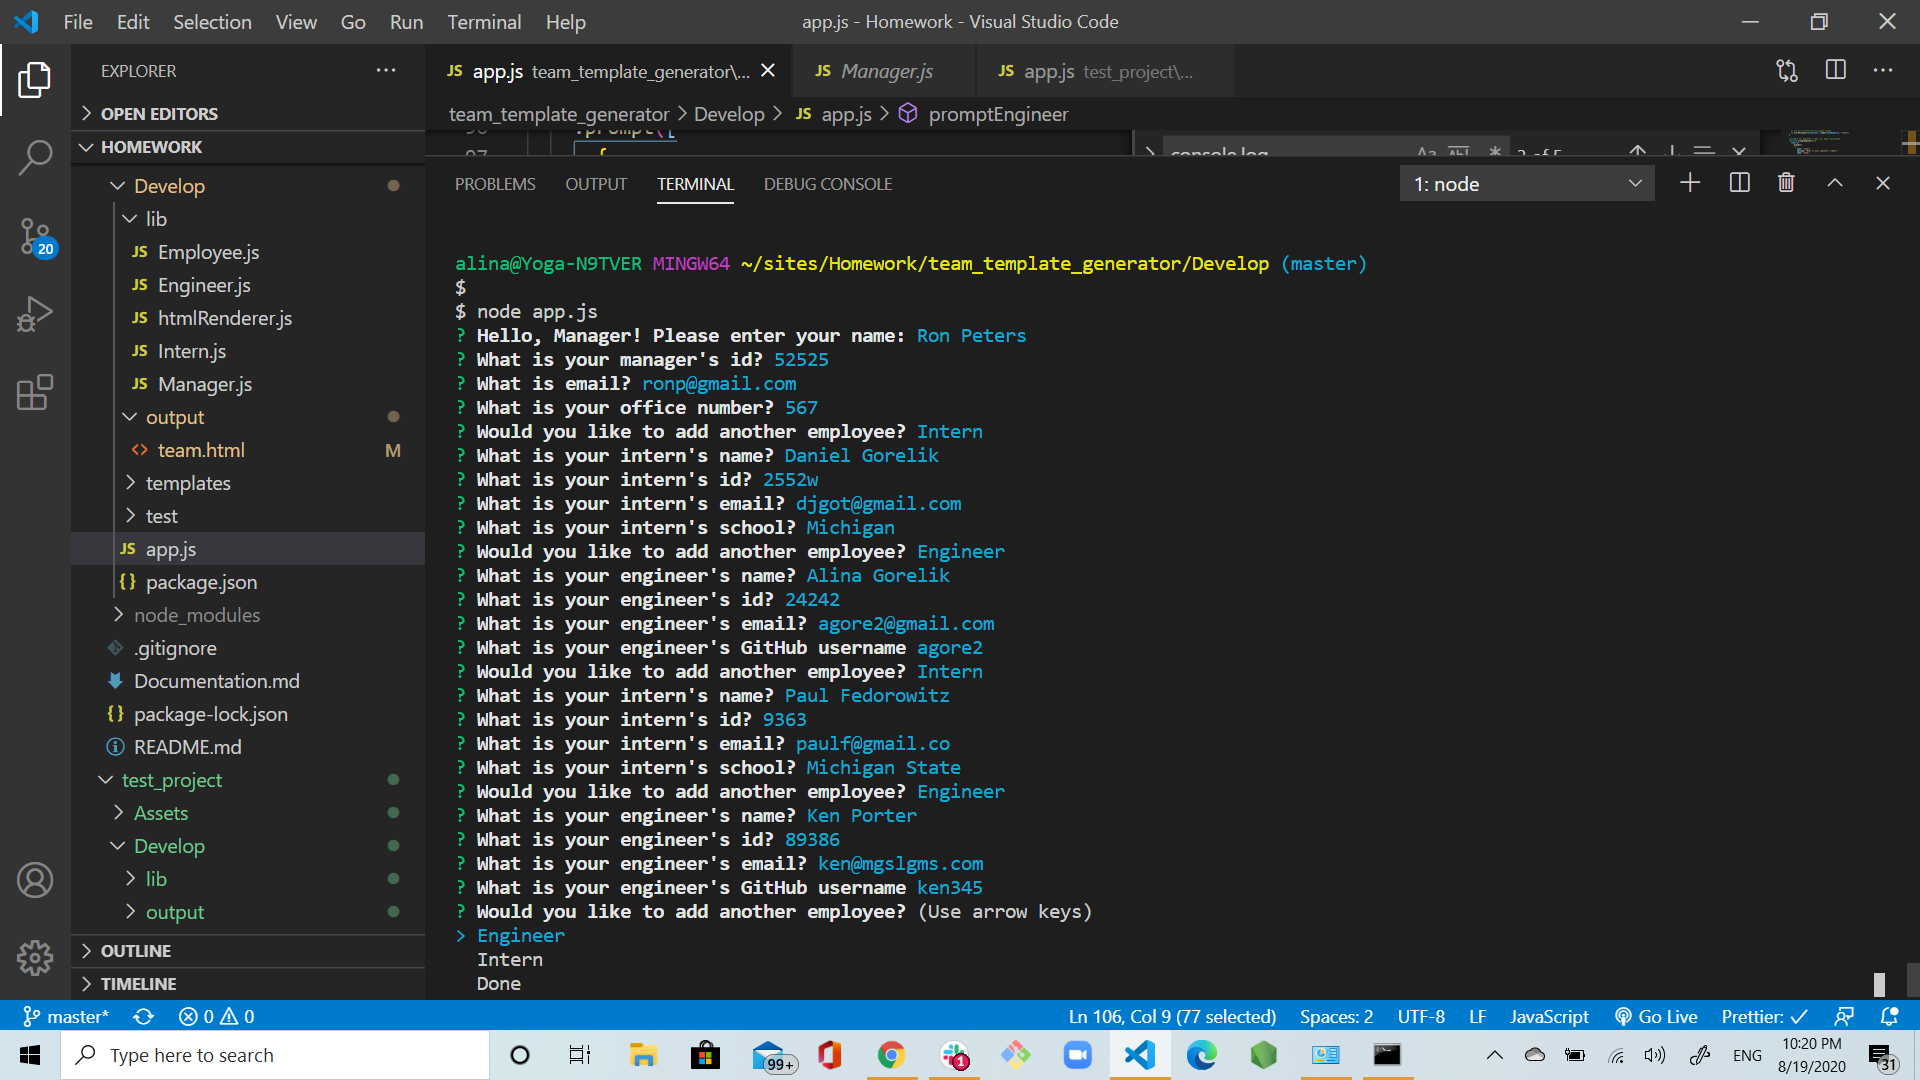
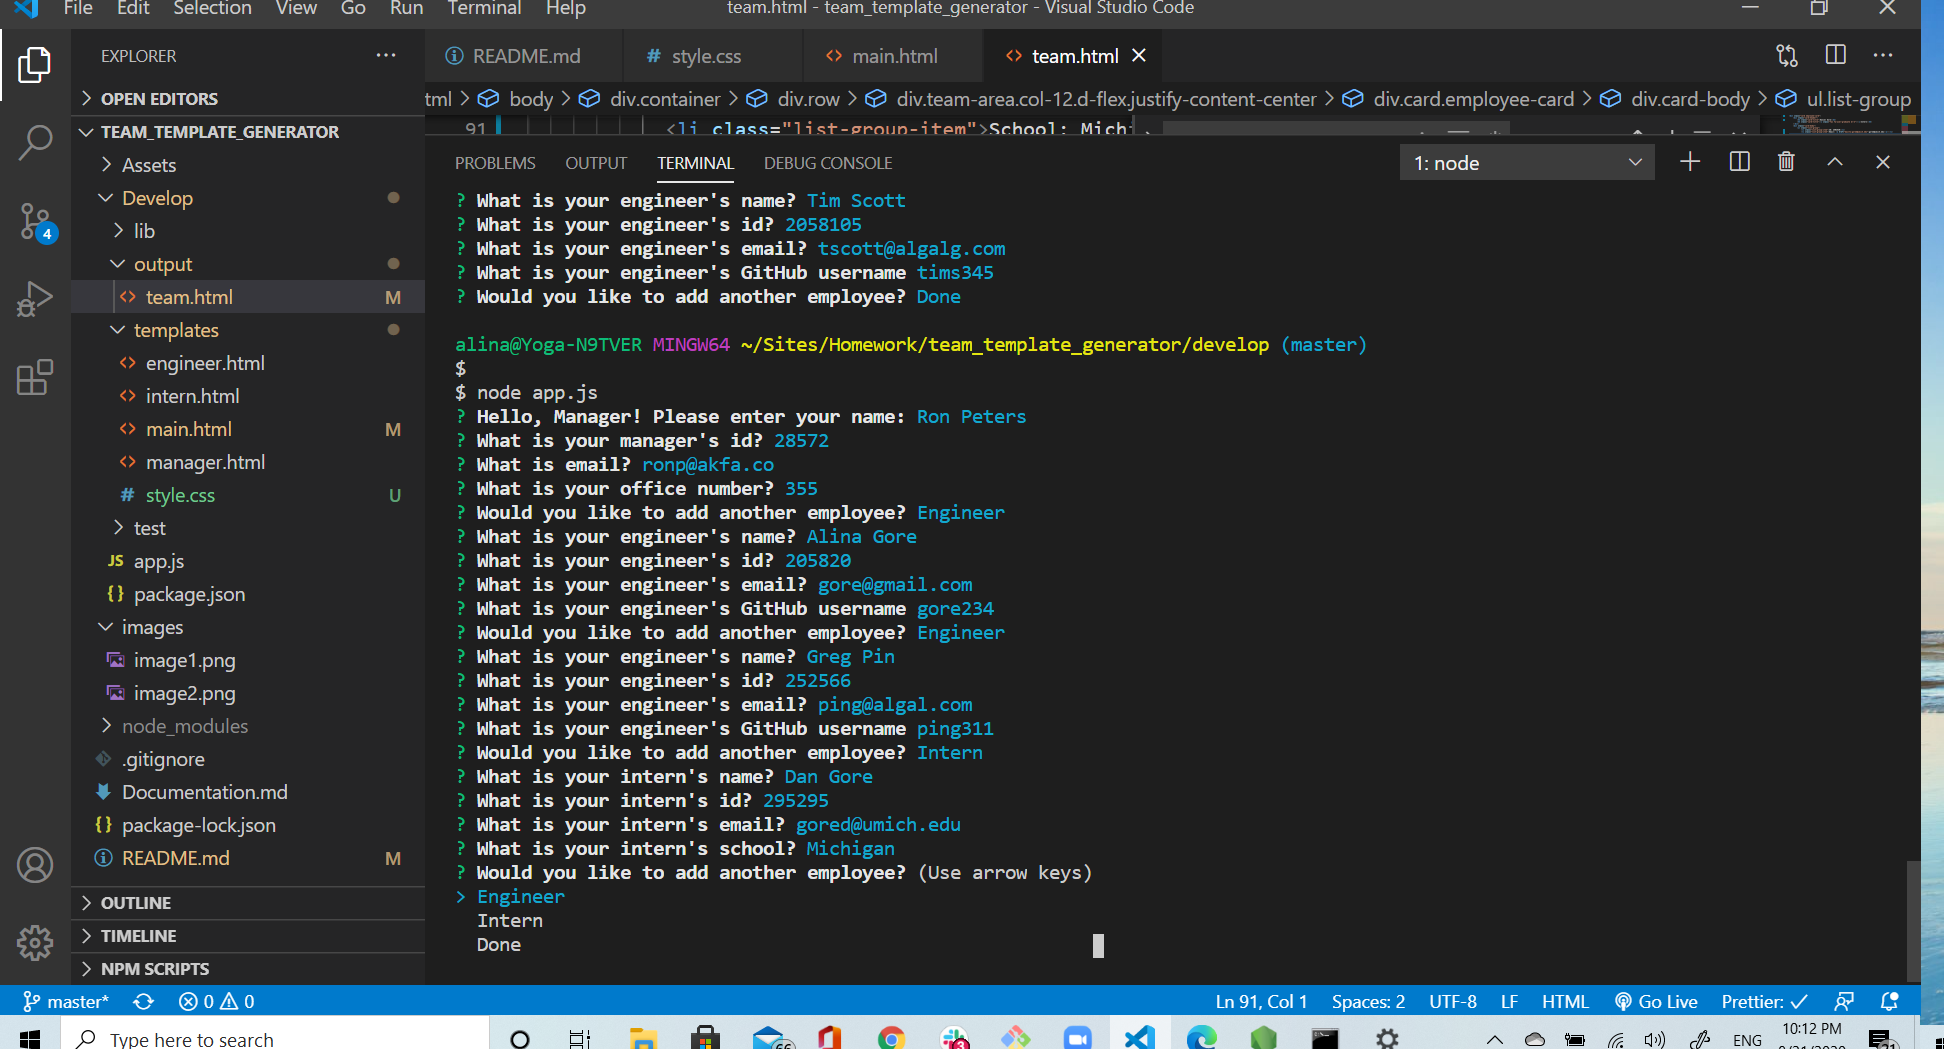
created style.css, added styles

diff --git a/Develop/output/team.html b/Develop/output/team.html
@@ -1,97 +1,87 @@
 <!DOCTYPE html>
 <html lang="en">
-
-<head>
+  <head>
     <meta charset="UTF-8" />
     <meta name="viewport" content="width=device-width, initial-scale=1.0" />
     <meta http-equiv="X-UA-Compatible" content="ie=edge" />
     <title>My Team</title>
-    <link rel="stylesheet" href="https://stackpath.bootstrapcdn.com/bootstrap/4.3.1/css/bootstrap.min.css"
-        integrity="sha384-ggOyR0iXCbMQv3Xipma34MD+dH/1fQ784/j6cY/iJTQUOhcWr7x9JvoRxT2MZw1T" crossorigin="anonymous">
-    <link rel="stylesheet" href="style.css">
-    <script src="https://kit.fontawesome.com/c502137733.js"></script>
-</head>
+    <link
+      rel="stylesheet"
+      href="https://stackpath.bootstrapcdn.com/bootstrap/4.3.1/css/bootstrap.min.css"
+      integrity="sha384-ggOyR0iXCbMQv3Xipma34MD+dH/1fQ784/j6cY/iJTQUOhcWr7x9JvoRxT2MZw1T"
+      crossorigin="anonymous"
+    />
 
-<body>
+    <script src="https://kit.fontawesome.com/c502137733.js"></script>
+    <link rel="stylesheet" href="../templates/style.css" />
+  </head>
+
+  <body>
     <div class="container-fluid">
-        <div class="row">
-            <div class="col-12 jumbotron mb-3 team-heading">
-                <h1 class="text-center">My Team</h1>
-            </div>
+      <div class="row">
+        <div class="col-12 jumbotron mb-3 team-heading">
+          <h1 class="text-center">My Team</h1>
         </div>
+      </div>
     </div>
     <div class="container">
-        <div class="row">
-            <div class="team-area col-12 d-flex justify-content-center">
-                <div class="card employee-card">
+      <div class="row">
+        <div class="team-area col-12 d-flex justify-content-center">
+          <div class="card employee-card">
     <div class="card-header">
         <h2 class="card-title">Ron Peters</h2>
         <h3 class="card-title"><i class="fas fa-mug-hot mr-2"></i>Manager</h3>
     </div>
     <div class="card-body">
         <ul class="list-group">
-            <li class="list-group-item">ID: 52525</li>
-            <li class="list-group-item">Email: <a href="mailto:ronp@gmail.com">ronp@gmail.com</a></li>
-            <li class="list-group-item">Office number: 567</li>
+            <li class="list-group-item">ID: 28572</li>
+            <li class="list-group-item">Email: <a href="mailto:ronp@akfa.co">ronp@akfa.co</a></li>
+            <li class="list-group-item">Office number: 355</li>
         </ul>
     </div>
 </div>
 <div class="card employee-card">
     <div class="card-header">
-        <h2 class="card-title">Alina Gorelik</h2>
+        <h2 class="card-title">Alina Gore</h2>
         <h3 class="card-title"><i class="fas fa-glasses mr-2"></i>Engineer</h3>
     </div>
     <div class="card-body">
         <ul class="list-group">
-            <li class="list-group-item">ID: 24242</li>
-            <li class="list-group-item">Email: <a href="mailto:agore2@gmail.com">agore2@gmail.com</a></li>
-            <li class="list-group-item">GitHub: <a href="https://github.com/agore2" target="_blank" rel="noopener noreferrer">agore2</a></li>
+            <li class="list-group-item">ID: 205820</li>
+            <li class="list-group-item">Email: <a href="mailto:gore@gmail.com">gore@gmail.com</a></li>
+            <li class="list-group-item">GitHub: <a href="https://github.com/gore234" target="_blank" rel="noopener noreferrer">gore234</a></li>
         </ul>
     </div>
 </div>
 ,<div class="card employee-card">
     <div class="card-header">
-        <h2 class="card-title">Ken Porter</h2>
+        <h2 class="card-title">Greg Pin</h2>
         <h3 class="card-title"><i class="fas fa-glasses mr-2"></i>Engineer</h3>
     </div>
     <div class="card-body">
         <ul class="list-group">
-            <li class="list-group-item">ID: 89386</li>
-            <li class="list-group-item">Email: <a href="mailto:ken@mgslgms.com">ken@mgslgms.com</a></li>
-            <li class="list-group-item">GitHub: <a href="https://github.com/ken345" target="_blank" rel="noopener noreferrer">ken345</a></li>
+            <li class="list-group-item">ID: 252566</li>
+            <li class="list-group-item">Email: <a href="mailto:ping@algal.com">ping@algal.com</a></li>
+            <li class="list-group-item">GitHub: <a href="https://github.com/ping311" target="_blank" rel="noopener noreferrer">ping311</a></li>
         </ul>
     </div>
 </div>
 <div class="card employee-card">
     <div class="card-header">
-        <h2 class="card-title">Daniel Gorelik</h2>
+        <h2 class="card-title">Dan Gore</h2>
         <h3 class="card-title"><i class="fas fa-user-graduate mr-2"></i>Intern</h3>
     </div>
     <div class="card-body">
         <ul class="list-group">
-            <li class="list-group-item">ID: 2552w</li>
-            <li class="list-group-item">Email: <a href="mailto:djgot@gmail.com">djgot@gmail.com</a></li>
+            <li class="list-group-item">ID: 295295</li>
+            <li class="list-group-item">Email: <a href="mailto:gored@umich.edu">gored@umich.edu</a></li>
             <li class="list-group-item">School: Michigan</li>
         </ul>
     </div>
 </div>
-,<div class="card employee-card">
-    <div class="card-header">
-        <h2 class="card-title">Paul Fedorowitz</h2>
-        <h3 class="card-title"><i class="fas fa-user-graduate mr-2"></i>Intern</h3>
-    </div>
-    <div class="card-body">
-        <ul class="list-group">
-            <li class="list-group-item">ID: 9363</li>
-            <li class="list-group-item">Email: <a href="mailto:paulf@gmail.co">paulf@gmail.co</a></li>
-            <li class="list-group-item">School: Michigan State</li>
-        </ul>
-    </div>
-</div>
 
-            </div>
         </div>
+      </div>
     </div>
-</body>
-
+  </body>
 </html>

diff --git a/Develop/templates/main.html b/Develop/templates/main.html
@@ -1,32 +1,35 @@
 <!DOCTYPE html>
 <html lang="en">
-
-<head>
+  <head>
     <meta charset="UTF-8" />
     <meta name="viewport" content="width=device-width, initial-scale=1.0" />
     <meta http-equiv="X-UA-Compatible" content="ie=edge" />
     <title>My Team</title>
-    <link rel="stylesheet" href="https://stackpath.bootstrapcdn.com/bootstrap/4.3.1/css/bootstrap.min.css"
-        integrity="sha384-ggOyR0iXCbMQv3Xipma34MD+dH/1fQ784/j6cY/iJTQUOhcWr7x9JvoRxT2MZw1T" crossorigin="anonymous">
-    <link rel="stylesheet" href="style.css">
-    <script src="https://kit.fontawesome.com/c502137733.js"></script>
-</head>
+    <link
+      rel="stylesheet"
+      href="https://stackpath.bootstrapcdn.com/bootstrap/4.3.1/css/bootstrap.min.css"
+      integrity="sha384-ggOyR0iXCbMQv3Xipma34MD+dH/1fQ784/j6cY/iJTQUOhcWr7x9JvoRxT2MZw1T"
+      crossorigin="anonymous"
+    />
 
-<body>
+    <script src="https://kit.fontawesome.com/c502137733.js"></script>
+    <link rel="stylesheet" href="../templates/style.css" />
+  </head>
+
+  <body>
     <div class="container-fluid">
-        <div class="row">
-            <div class="col-12 jumbotron mb-3 team-heading">
-                <h1 class="text-center">My Team</h1>
-            </div>
+      <div class="row">
+        <div class="col-12 jumbotron mb-3 team-heading">
+          <h1 class="text-center">My Team</h1>
         </div>
+      </div>
     </div>
     <div class="container">
-        <div class="row">
-            <div class="team-area col-12 d-flex justify-content-center">
-                {{ team }}
-            </div>
+      <div class="row">
+        <div class="team-area col-12 d-flex justify-content-center">
+          {{ team }}
         </div>
+      </div>
     </div>
-</body>
-
+  </body>
 </html>

diff --git a/Develop/templates/style.css b/Develop/templates/style.css
@@ -1,0 +1,23 @@
+body {
+  background-color: #f2fdff;
+}
+
+.team-heading {
+  background-color: #4389c2;
+}
+
+h1 {
+  font-family: "Montserrat", sans-serif;
+  color: black;
+  font-size: 72px;
+  margin: 0px;
+}
+
+.employee-card {
+  margin: 10pt;
+  background-color: #4389c2;
+}
+
+.card-header {
+  background-color: #f8f875;
+}

diff --git a/README.md b/README.md
@@ -1,5 +1,9 @@
 # team_template_generator
 
+## Description
+
+This application will help a manager to generate a team roster. The app will dynamically generate an HTML file with the info based on manager's responses. The info for each team member will include name, email, employee id, github (for engineers), school (for interns) and other relevant info.
+
 ## Usage
 
 The app is a software engineering team generator command line application. The application will prompt the user for information about the team manager and then information about the team members. The user can input any number of team members, and they may be a mix of engineers and interns. This assignment must also pass all unit tests. When the user has completed building the team, the application will create an HTML file that displays a nicely formatted team roster based on the information provided by the user. Following the [common templates for user stories](https://en.wikipedia.org/wiki/User_story#Common_templates), we can frame this challenge as follows:
@@ -15,6 +19,10 @@ so that I have quick access to emails and GitHub profiles
 ![team-template-generator img 1](images/image1.png)
 
 ![team-template-generator img 2](images/image2.png)
+
+## Installation
+
+In the command line of the working directory, type "npm install" to install inquirer, util and fs.
 
 ## GitHub Repository
 
